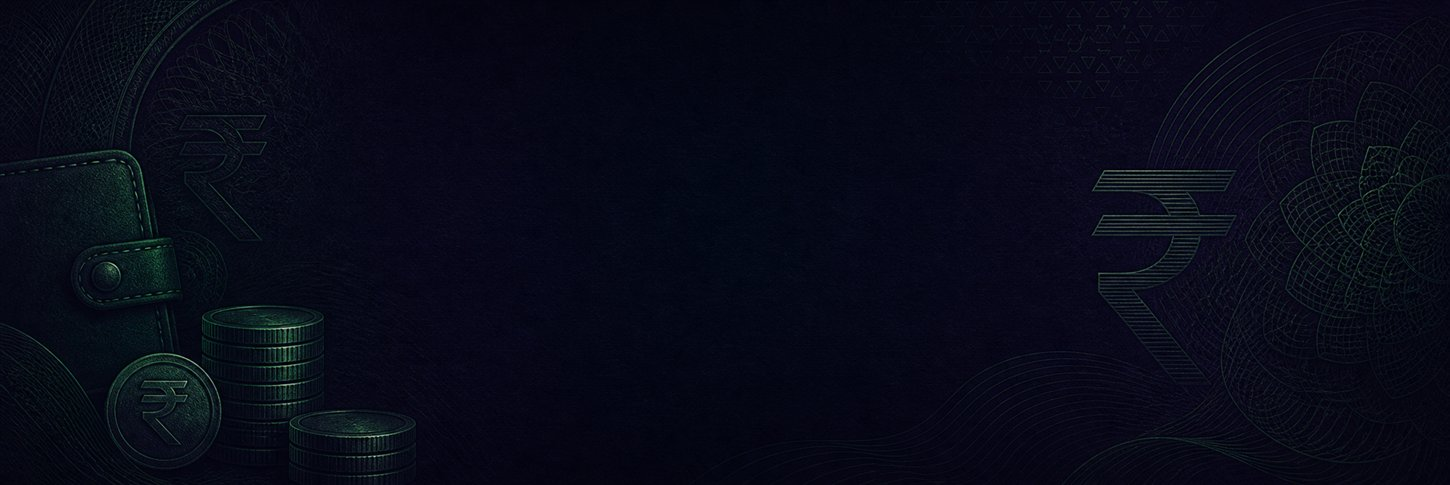
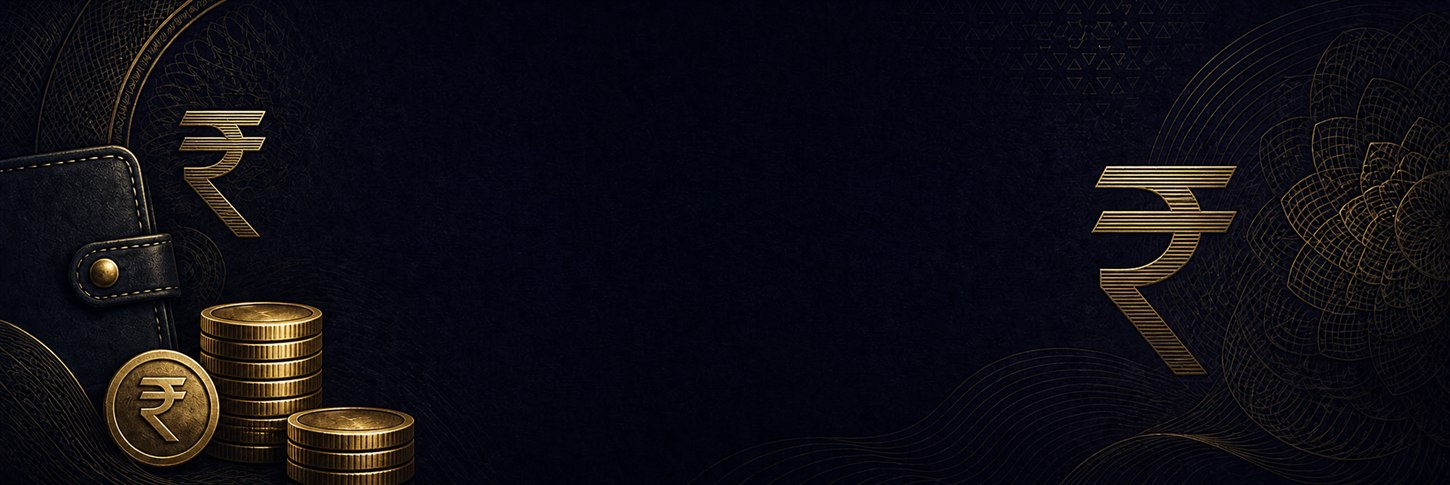
Brighten balance artwork and fix nav spacing

Changed region(s): [[0.0, 0.0, 0.3103, 1.0], [0.7448, 0.0619, 1.0, 0.9588], [0.7448, 0.9278, 0.7759, 0.9588]]

diff --git a/src/styles.css b/src/styles.css
@@ -247,7 +247,7 @@ button:disabled {
 .app-content {
   min-height: calc(100vh - 138px);
   min-height: calc(100dvh - 138px);
-  padding: 16px 14px calc(96px + env(safe-area-inset-bottom));
+  padding: 16px 14px calc(60px + max(9px, env(safe-area-inset-bottom)));
 }
 
 .page {
@@ -875,7 +875,7 @@ button:disabled {
   color: #ffffff;
   background-color: #071025;
   background-image:
-    linear-gradient(90deg, rgba(4, 9, 25, 0.58), rgba(5, 10, 28, 0.42) 48%, rgba(5, 10, 28, 0.6)),
+    linear-gradient(90deg, rgba(4, 9, 25, 0.18), rgba(5, 10, 28, 0.42) 48%, rgba(5, 10, 28, 0.18)),
     url('/money-balance-bg.jpg');
   background-position: center;
   background-size: cover;
